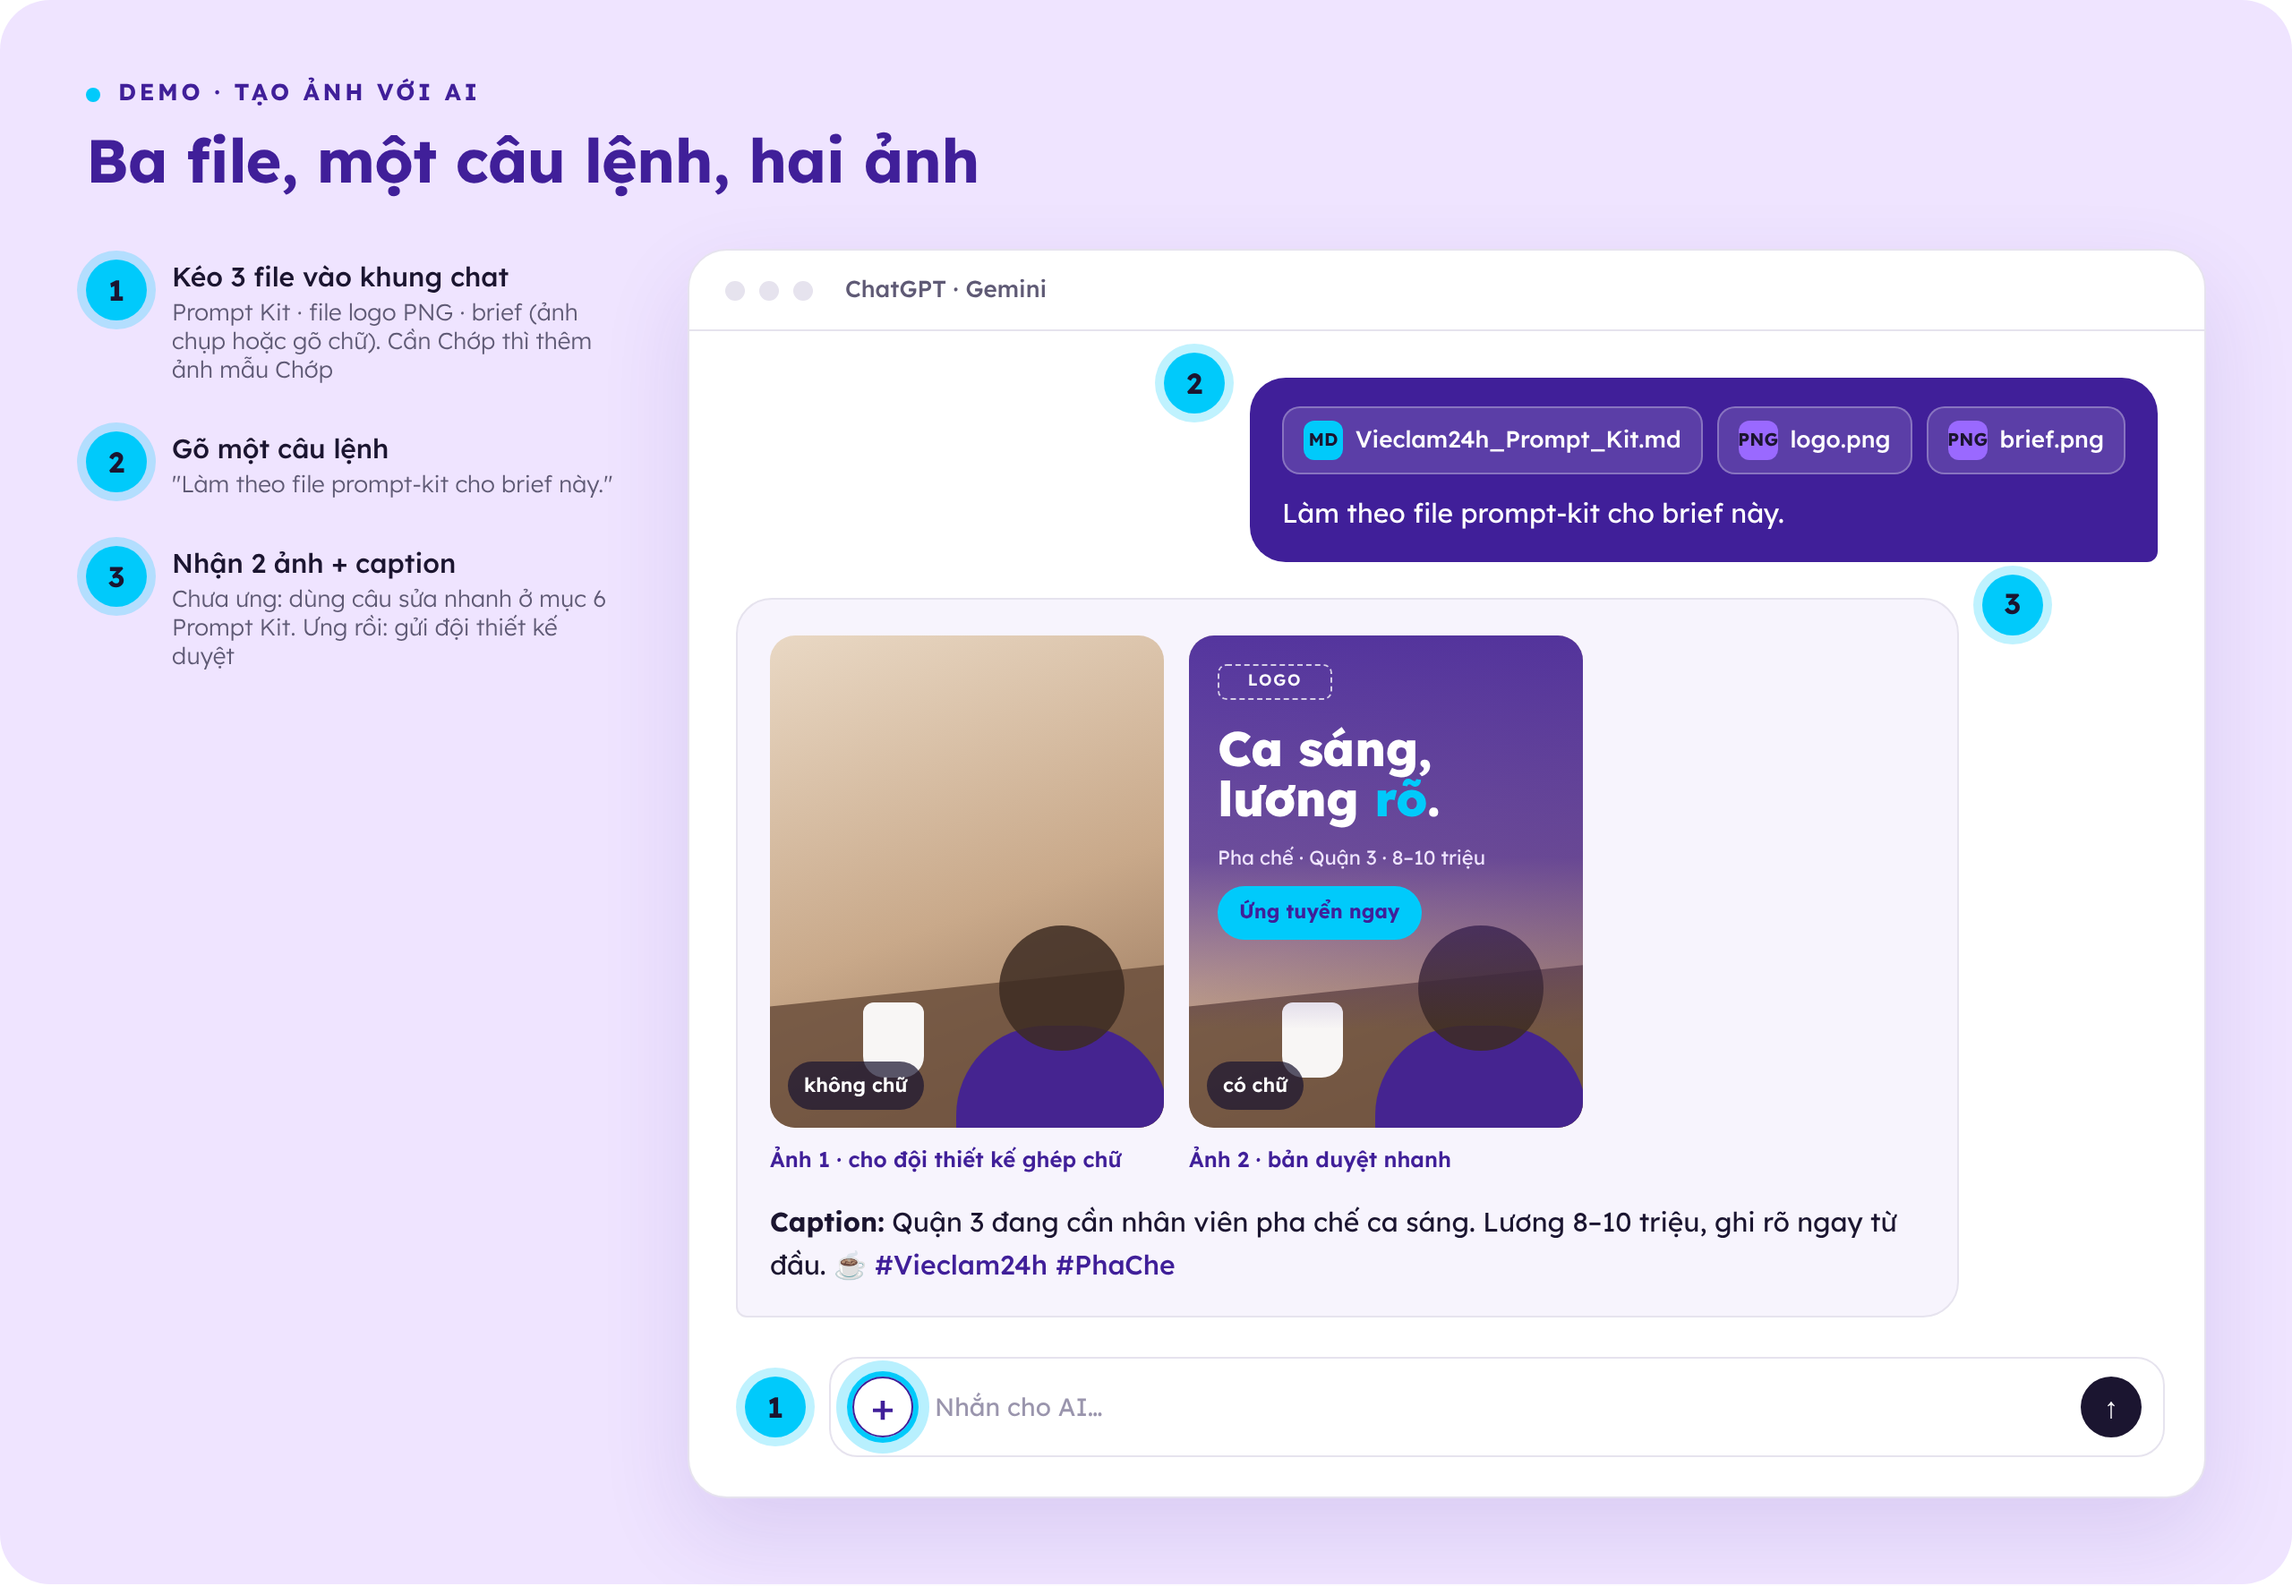
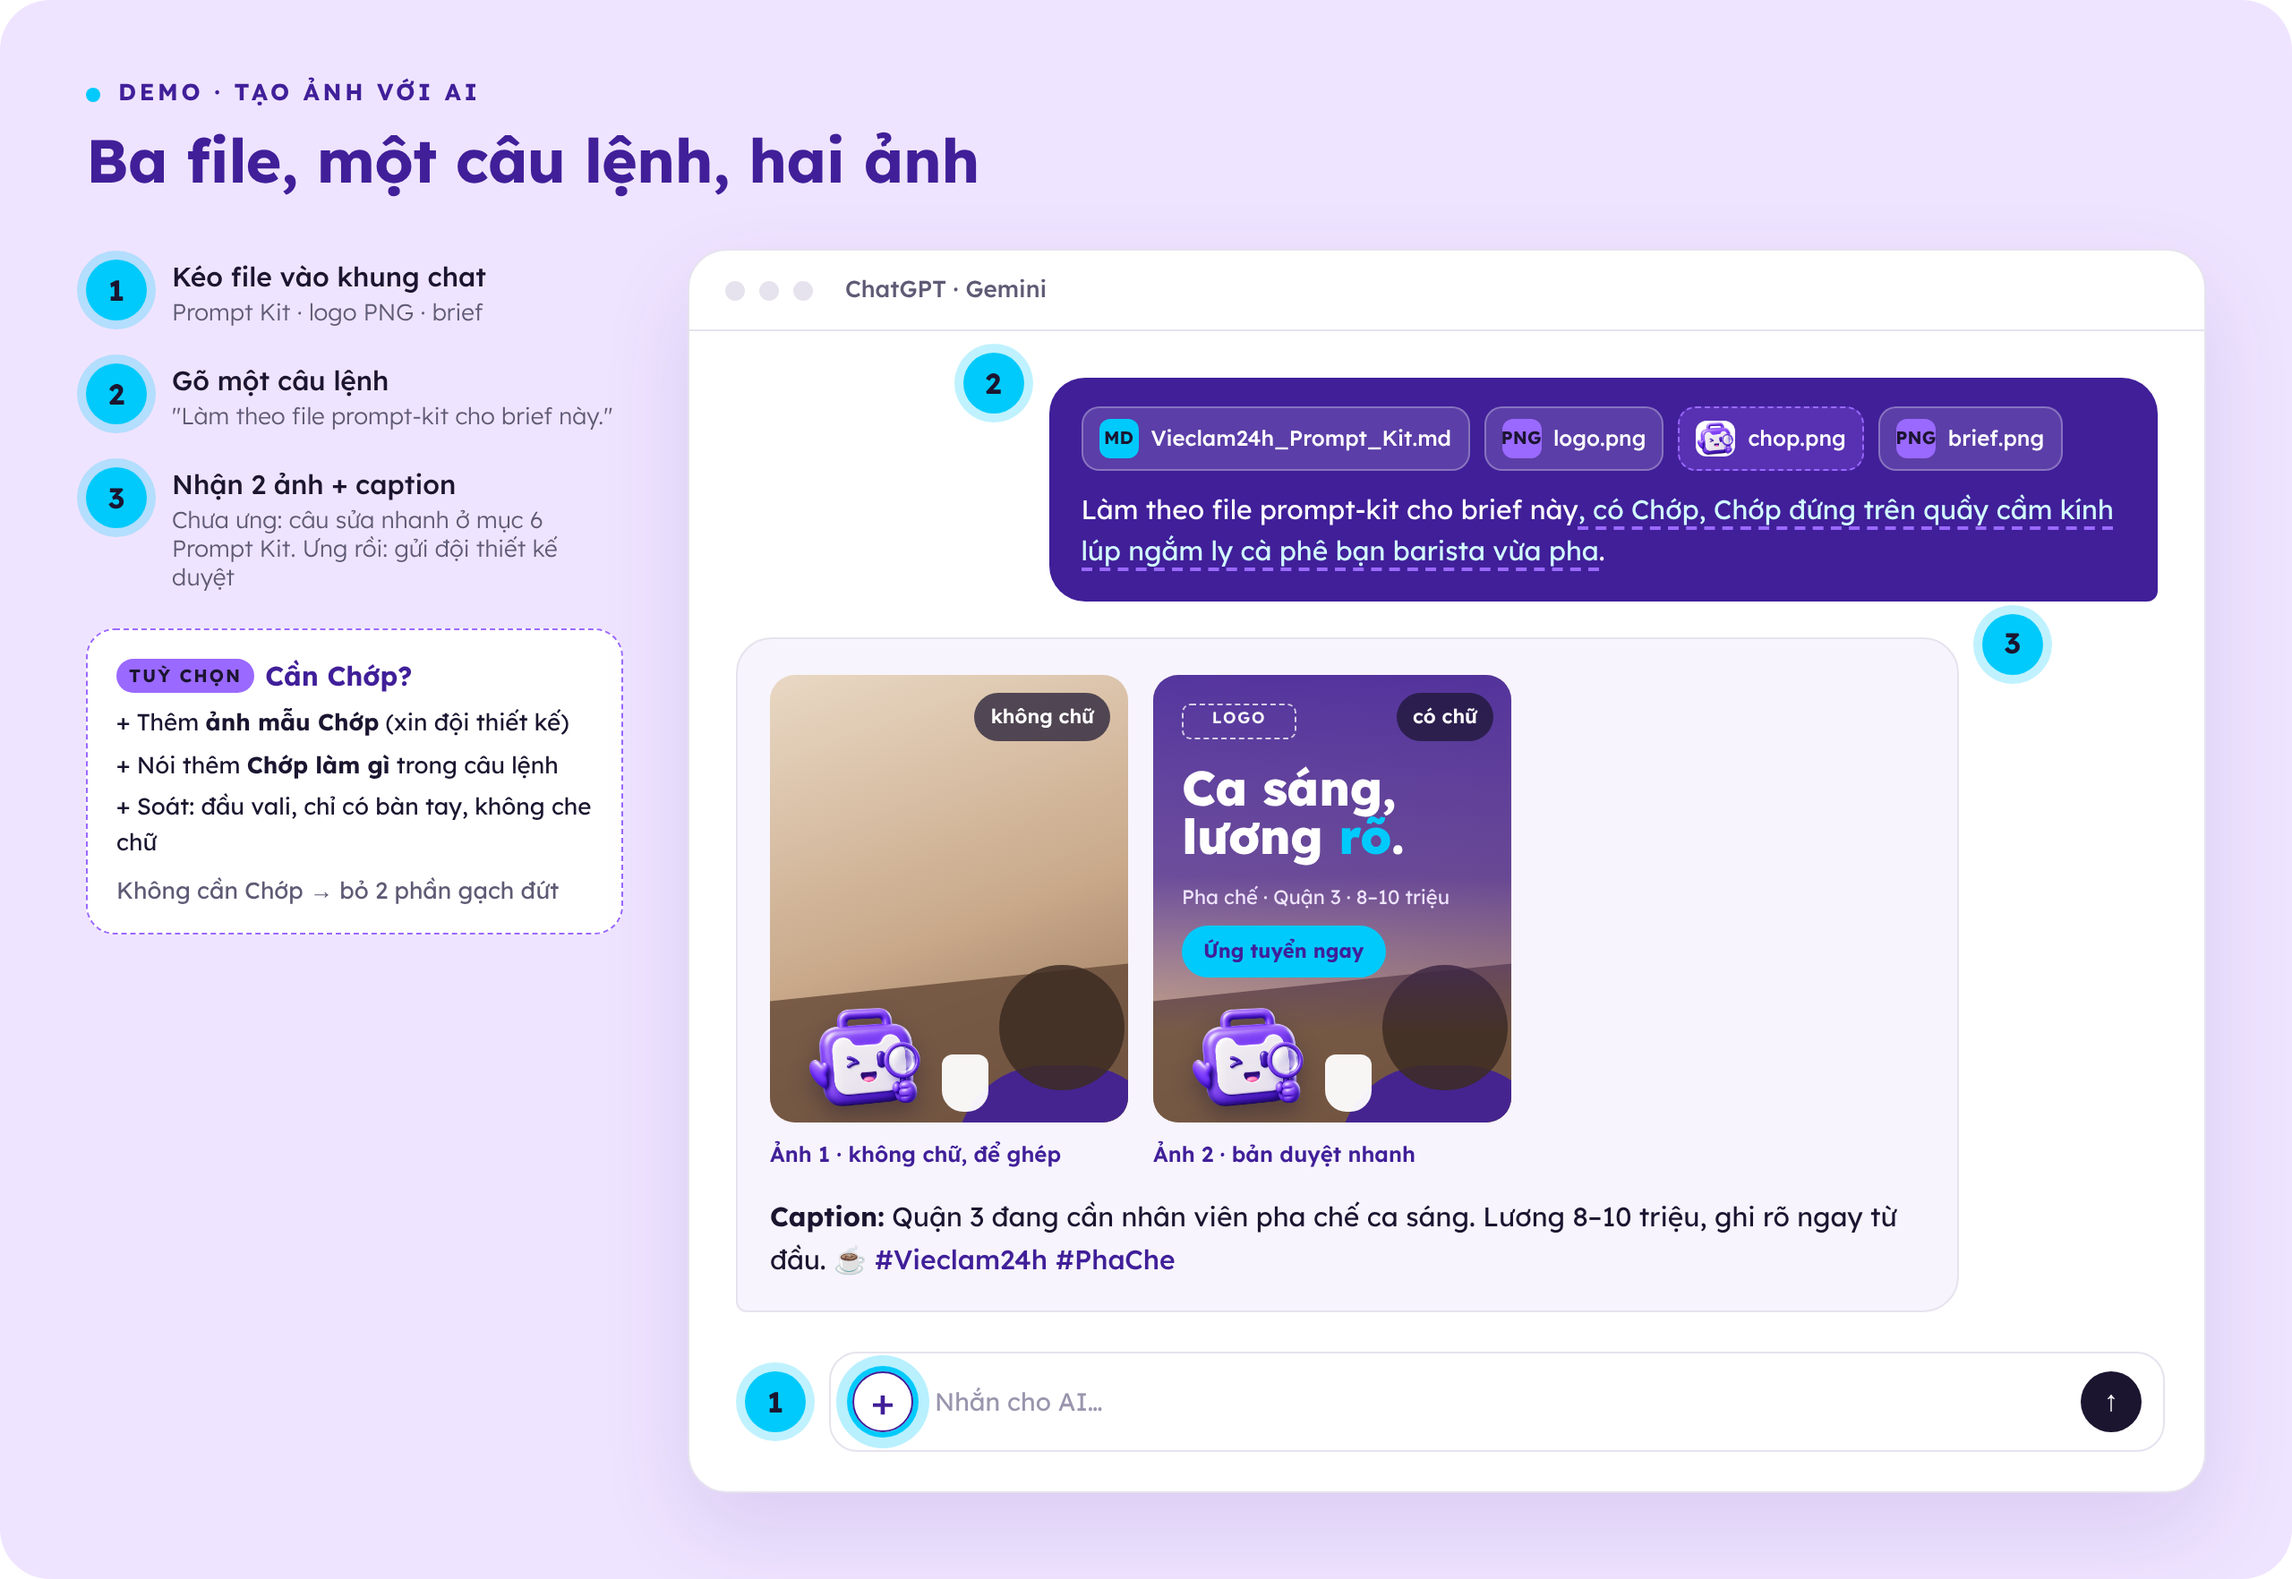
README: gộp demo tạo ảnh có/không Chớp thành một hình
Claude-Session: https://claude.ai/code/session_017ikQ3zxjewmaUdxTsuc3FP

diff --git a/README.md b/README.md
@@ -151,11 +151,7 @@ Nguyên tắc chỉ có một: **đưa file cho AI đọc trước, rồi mới 
 </details>
 
 <p align="center">
-  <img src="assets/demo-ai-image.png" alt="Demo: kéo Prompt Kit, logo và brief vào chat, AI trả về 2 ảnh và caption" width="100%">
-</p>
-
-<p align="center">
-  <img src="assets/demo-ai-chop.png" alt="Demo: thêm ảnh mẫu Chớp, nói rõ Chớp làm gì, soát Chớp giống ảnh mẫu" width="100%">
+  <img src="assets/demo-ai-image.png" alt="Demo: kéo Prompt Kit, logo và brief vào chat (thêm ảnh mẫu Chớp nếu cần), AI trả về 2 ảnh và caption" width="100%">
 </p>
 
 <details>
